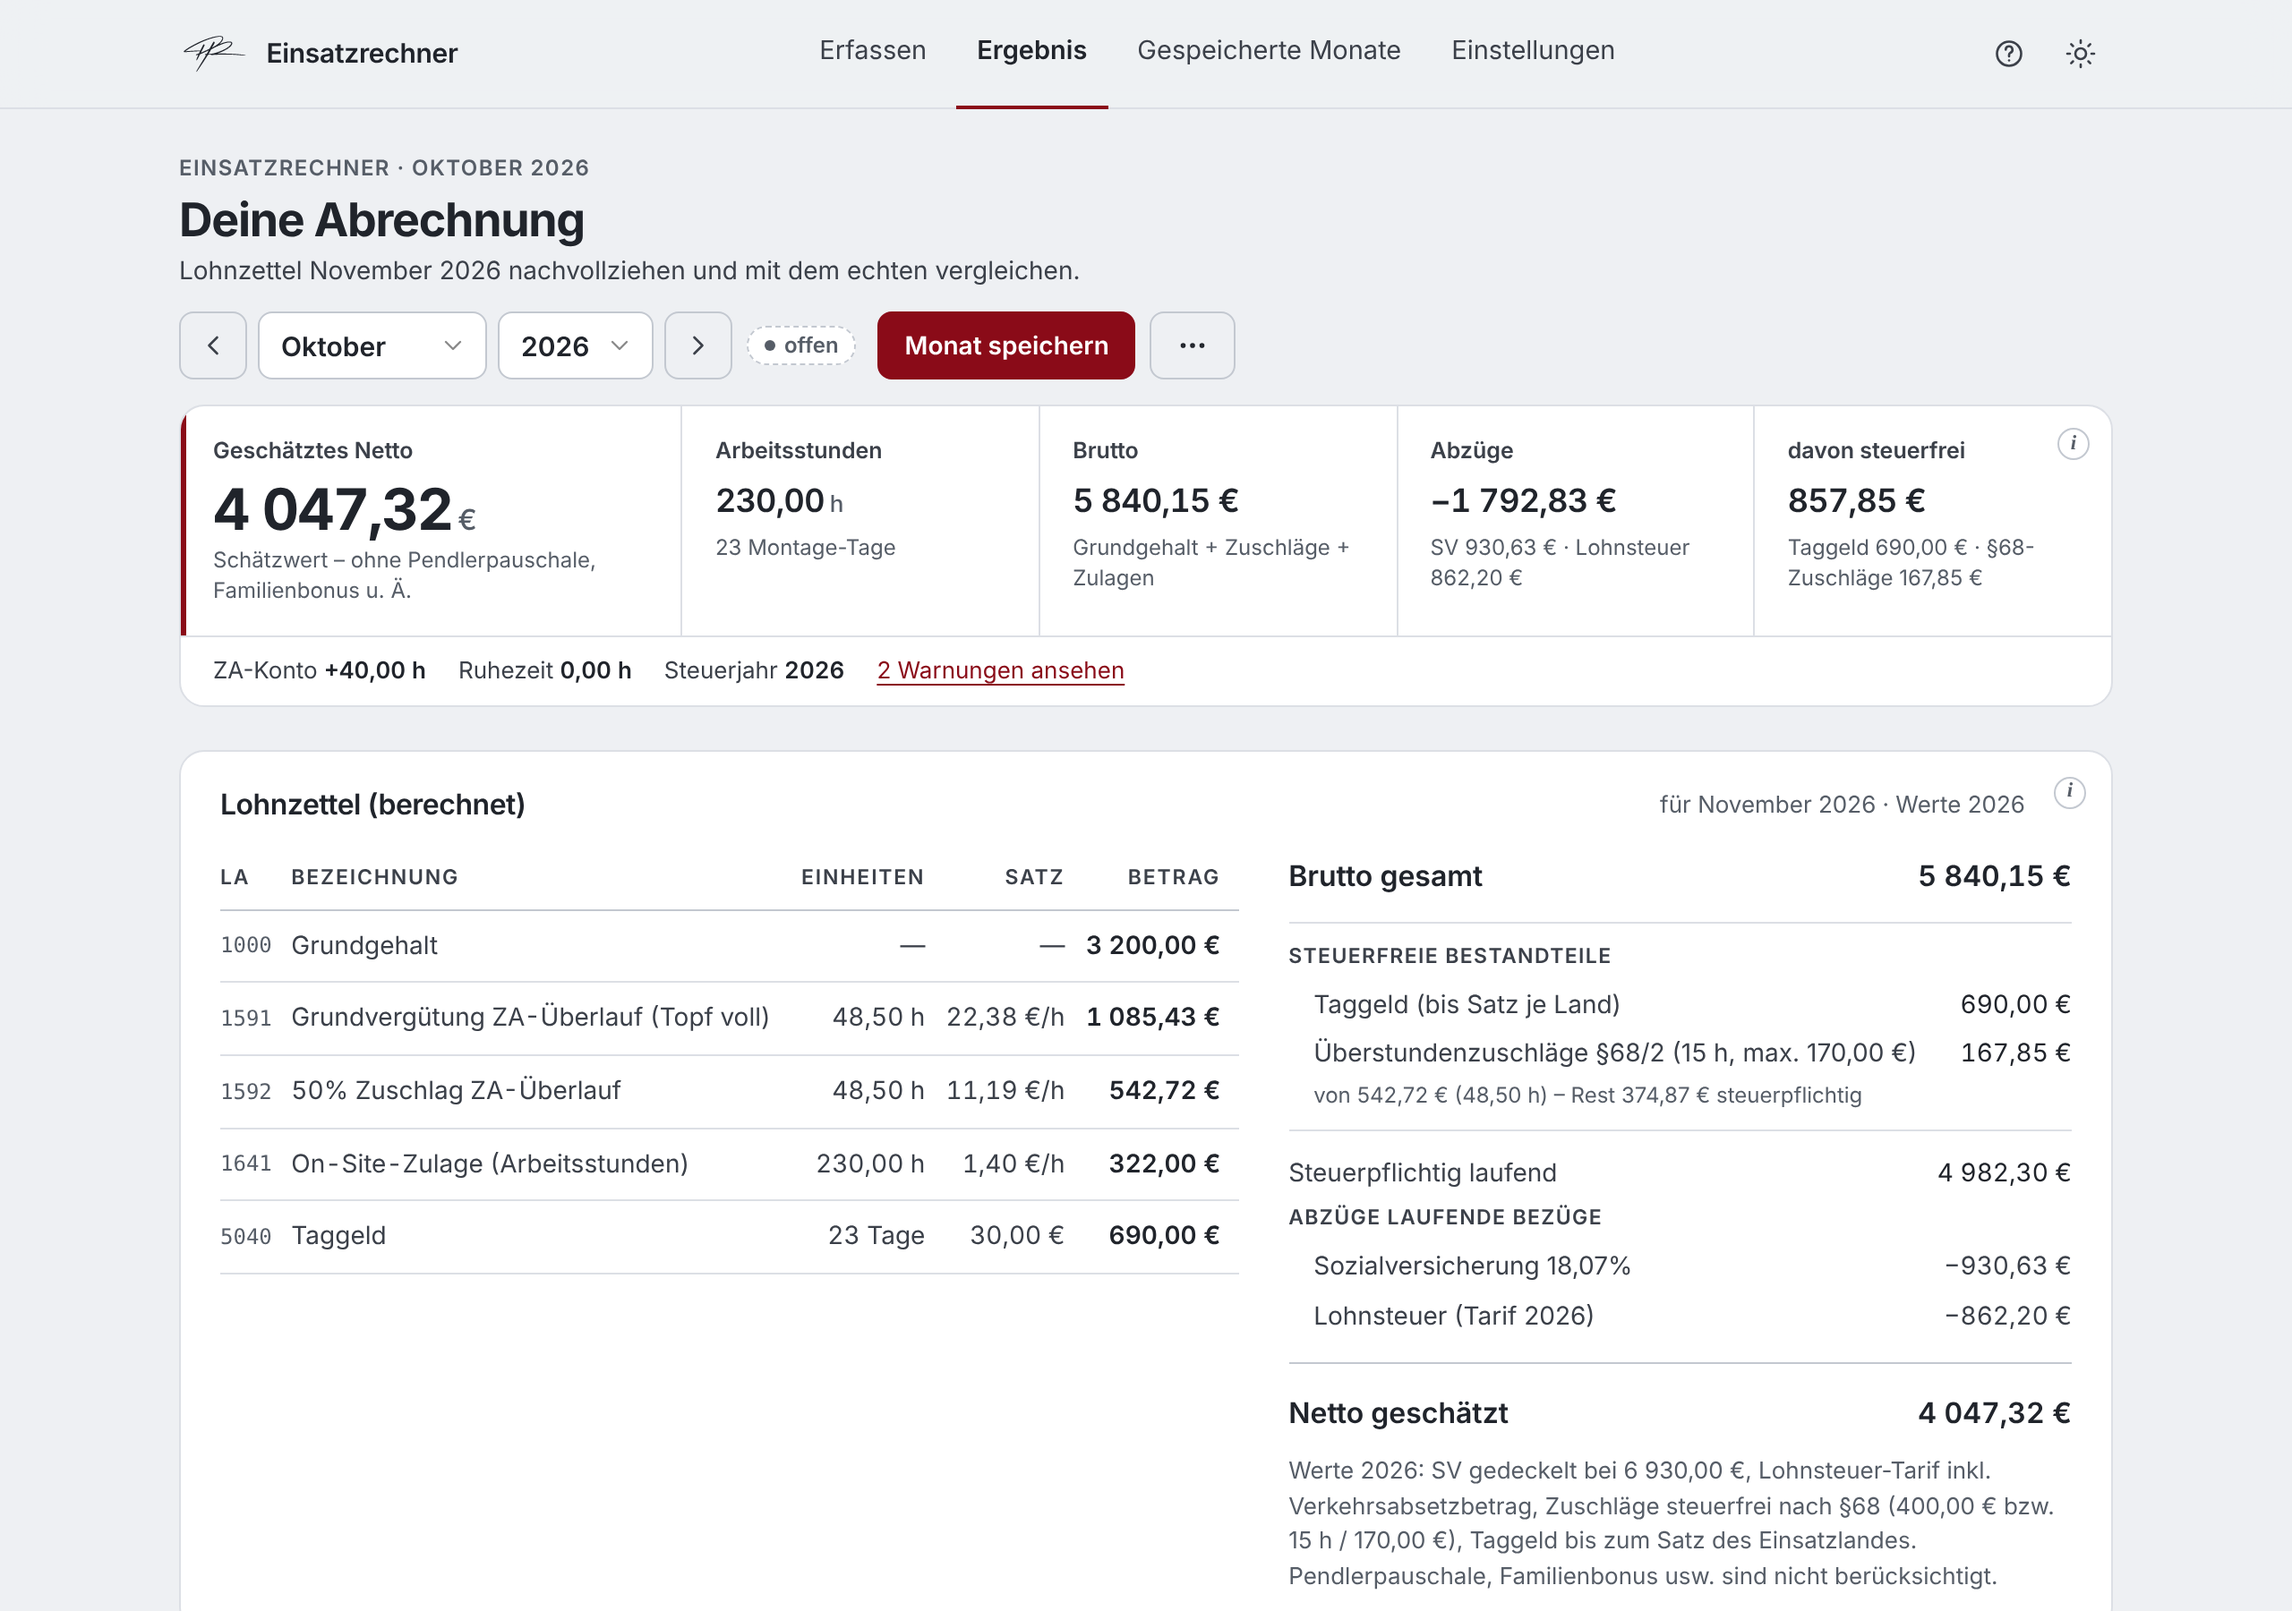
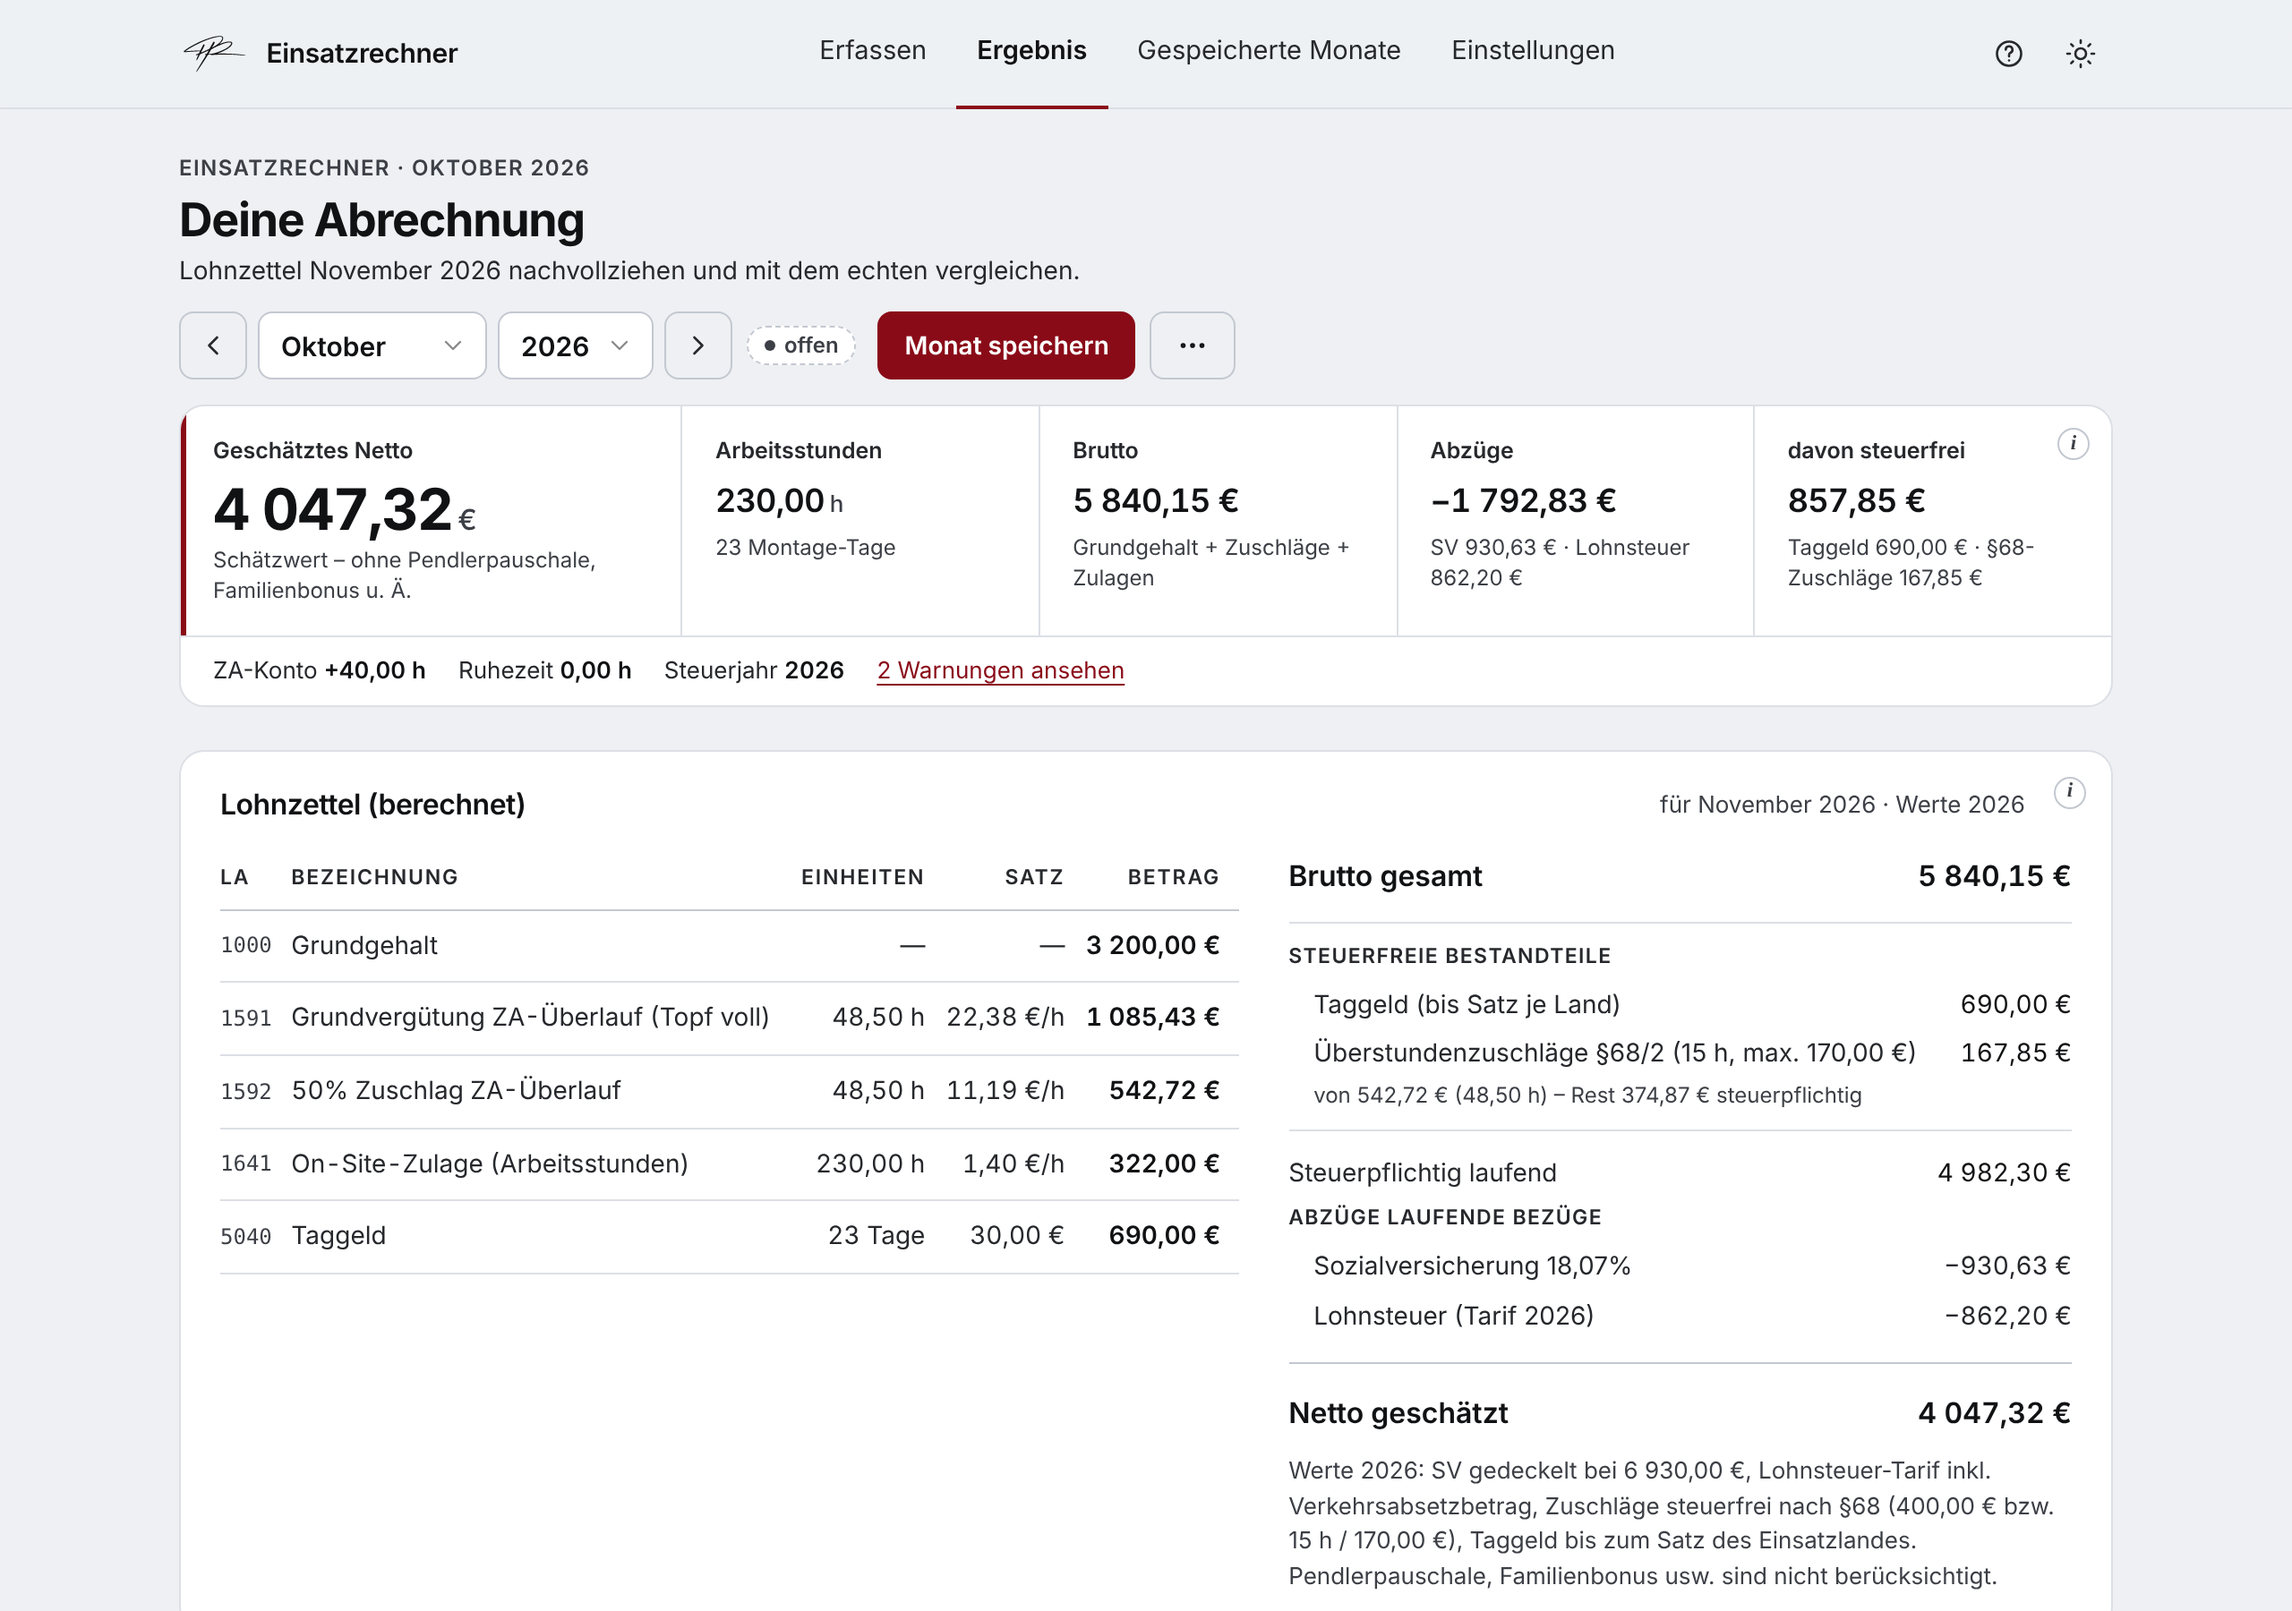
Schrift fast schwarz (2.3.2)
Haupt- und Nebentexte deutlich dunkler, README-Screenshots aktualisiert.

diff --git a/index.html b/index.html
@@ -23,9 +23,9 @@
 :root{
[1 lines of base64/hex data omitted]
   --pr-bg:#eef0f3;--pr-surface:#ffffff;--pr-surface-2:#eceef2;--pr-border:#dcdfe5;--pr-border-strong:#c3c8d0;
-  --pr-text:#20242b;--pr-text-2:#3b4049;--pr-text-3:#565d67;
+  --pr-text:#111214;--pr-text-2:#26282c;--pr-text-3:#3c3f45;
   --pr-red:#8a0b18;--pr-red-hover:#6d0812;--pr-red-text:#8a0b18;--pr-red-soft:#f9ecee;--pr-red-ring:rgba(138,11,24,.16);
-  --pr-ink:#20242b;--pr-ink-soft:#eef0f3;--pr-ink-ring:rgba(32,36,43,.14);--pr-on-ink:#ffffff;
+  --pr-ink:#111214;--pr-ink-soft:#eceef1;--pr-ink-ring:rgba(17,18,20,.14);--pr-on-ink:#ffffff;
   --pr-code-bg:#f1f2f5;--pr-on-accent:#ffffff;
   --pr-shadow:none;
   --pr-font:ui-sans-serif,system-ui,-apple-system,'Segoe UI',Roboto,'Helvetica Neue',Arial,sans-serif;
@@ -1669,7 +1669,7 @@ function rhythmusMonat(modell,start,monat,jahr,t,land,region){
 // ═══════════════════════════════════════════════════════════════════════════
 // App – Oberfläche, Speicherung, Navigation
 // ═══════════════════════════════════════════════════════════════════════════
-const APP_VERSION='2.3.1'
+const APP_VERSION='2.3.2'
 
 // Quelltext der Seite im Originalzustand (vor jeder JS-Änderung) — Basis zum Zurückschreiben der Einstellungen
 const SOURCE_HTML=(()=>{const c=document.documentElement.cloneNode(true);c.removeAttribute('data-theme');return'<!DOCTYPE html>\n'+c.outerHTML})()

diff --git a/CHANGELOG.md b/CHANGELOG.md
@@ -2,6 +2,12 @@
 
 Alle wichtigen Änderungen an diesem Projekt. Format nach [Keep a Changelog](https://keepachangelog.com/de/1.1.0/), Versionierung nach [Semantic Versioning](https://semver.org/lang/de/).
 
+## [2.3.2] – 2026-10-21
+
+### Geändert
+- Schrift fast schwarz (#111214), Nebentexte deutlich dunkler – besser lesbar, auch im Freien
+- Screenshots in der README aktualisiert
+
 ## [2.3.1] – 2026-10-21
 
 ### Geändert

diff --git a/ueberblick.md b/ueberblick.md
@@ -1,6 +1,6 @@
 # Einsatzrechner – Funktionsüberblick
 
-Stand: Version 2.3.1 · Live: <https://paul-rafael.github.io/einsatzrechner/>
+Stand: Version 2.3.2 · Live: <https://paul-rafael.github.io/einsatzrechner/>
 
 Einsätze erfassen, Lohn nachrechnen, Lohnzettel prüfen – nach österreichischem Recht, vollständig im Browser, ohne Konto und ohne Server.
 
